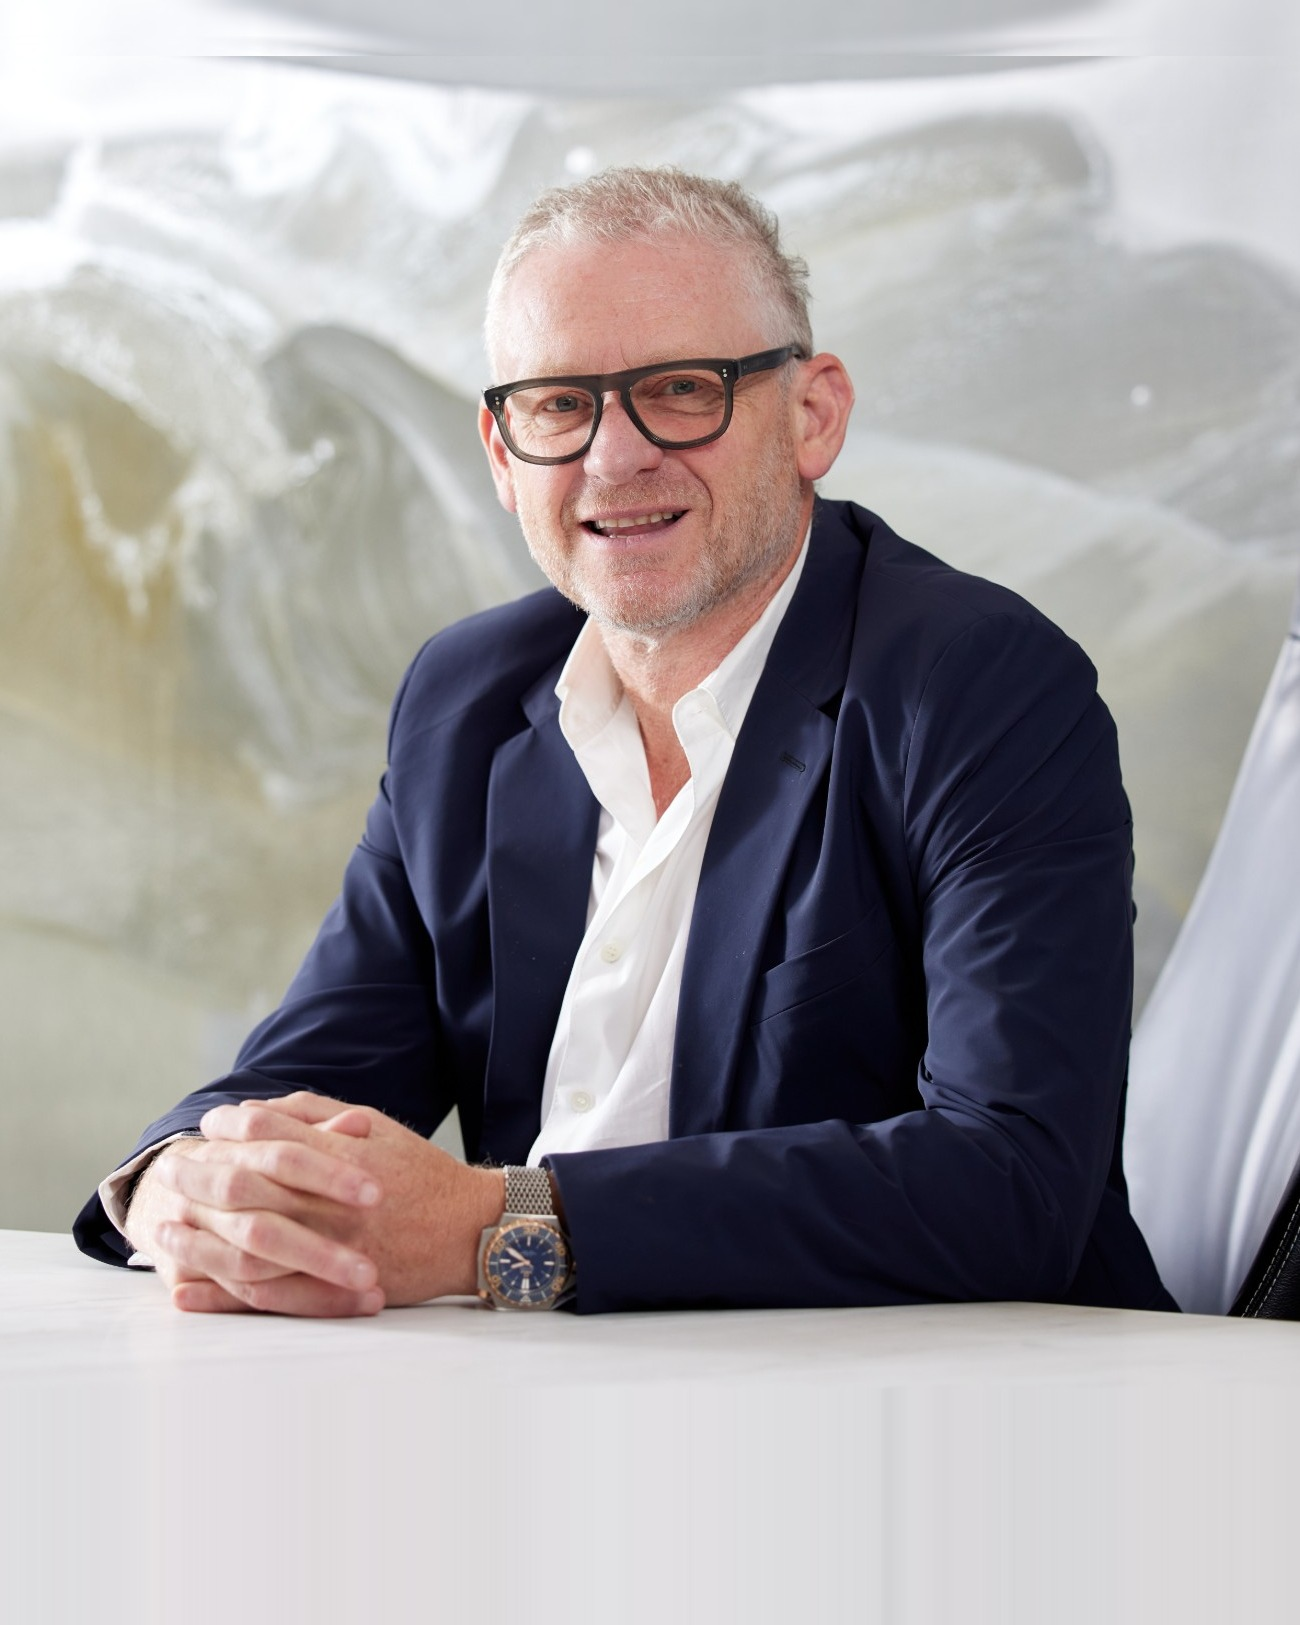
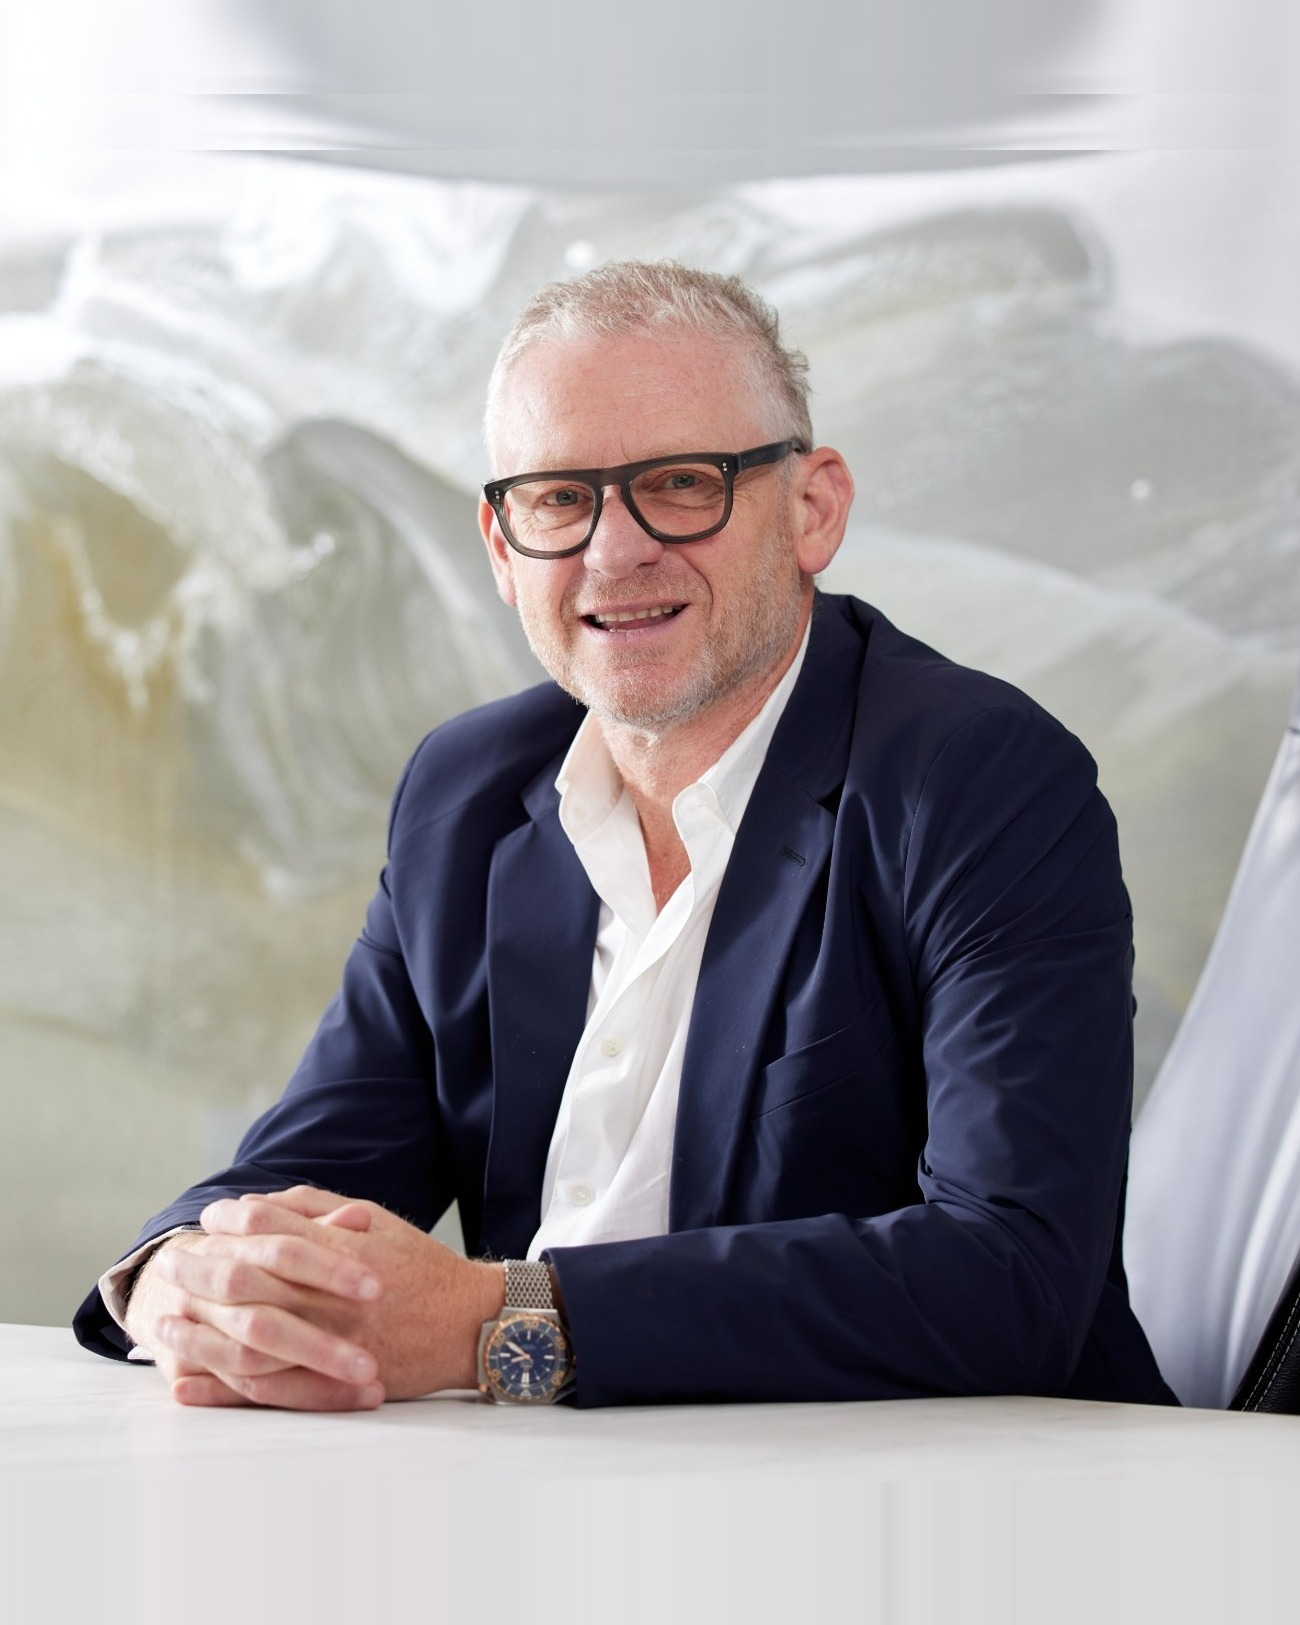
Revert nav colour to original and align Len Glenvill head with Leigh's
The orange nav colour didn't render as intended, so header/hero nav
items and dividers go back to their original pink/white tones.

Len Glenvill's portrait is nudged down within its frame so the top of
his head lines up with the top of Leigh Squarci's head.

diff --git a/website.css b/website.css
@@ -38,11 +38,11 @@ a { color: inherit; text-decoration: none; }
   gap: clamp(10px, 1.2vw, 16px);
   font-family: var(--font-sans);
   font-size: 11px; font-weight: 600; letter-spacing: 0.22em; text-transform: uppercase;
-  color: var(--casaley-orange);
+  color: rgba(242,226,221,0.85);
 }
 .casaley-header__nav a { transition: color var(--dur-fast) var(--ease-out); }
-.casaley-header__nav a:hover { color: var(--casaley-orange-soft); }
-.casaley-header__nav span { opacity: 0.6; }
+.casaley-header__nav a:hover { color: var(--casaley-pink-light); }
+.casaley-header__nav span { opacity: 0.5; }
 
 /* === Hero — the "Opportunity Unearthed" fold =================== */
 /* A normal-flow fold on the royal-blue field: a framed streetscape with the
@@ -111,11 +111,11 @@ a { color: inherit; text-decoration: none; }
 .casaley-hero__nav {
   display: flex; flex-wrap: wrap; align-items: center;
   gap: clamp(10px, 1.2vw, 16px);
-  color: var(--casaley-orange);
+  color: rgba(255,255,255,0.85);
 }
 .casaley-hero__nav a { transition: color var(--dur-fast) var(--ease-out); }
-.casaley-hero__nav a:hover { color: var(--casaley-orange-soft); }
-.casaley-hero__nav span { opacity: 0.6; }
+.casaley-hero__nav a:hover { color: #fff; }
+.casaley-hero__nav span { opacity: 0.5; }
 .casaley-hero__lede {
   font-family: var(--font-display); font-weight: 700;
   font-size: clamp(20px, 2.2vw, 30px);
